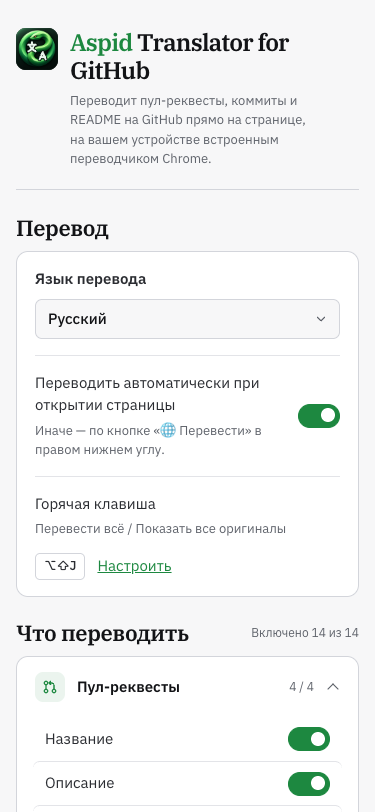
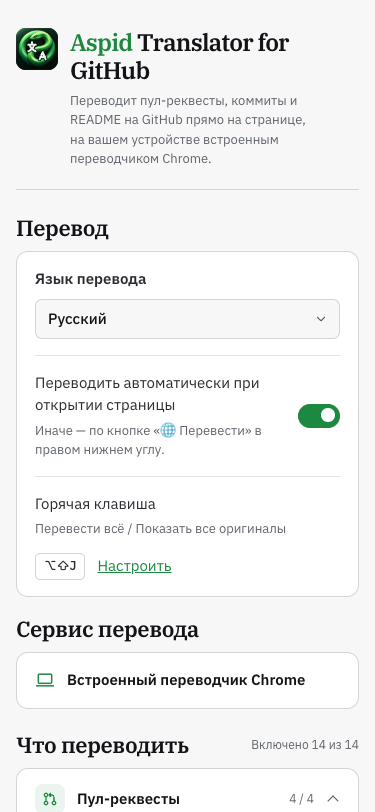
fix(options): restore the two-column settings layout

diff --git a/static/options.html b/static/options.html
@@ -30,7 +30,7 @@
       margin: 0; background: var(--bg); color: var(--fg);
       font: 15px/1.5 var(--sans); -webkit-font-smoothing: antialiased;
     }
-    main { max-width: 736px; margin: 0 auto; padding: 48px 32px 80px; }
+    main { max-width: 1088px; margin: 0 auto; padding: 48px 32px 80px; }
     header {
       display: flex; align-items: center; gap: 18px; padding-bottom: 28px;
       border-bottom: 1px solid var(--line); margin-bottom: 32px;
@@ -40,8 +40,9 @@
     h1 { font: 600 clamp(24px, 3vw, 36px)/1.18 var(--serif); letter-spacing: -0.035em; color: var(--strong); }
     h1 .brand { color: var(--accent); }
     .tagline { max-width: 72ch; margin-top: 6px; color: var(--muted); text-wrap: pretty; }
-    form { display: grid; grid-template-columns: minmax(0, 1fr); align-items: start; gap: 36px; }
-    section { display: grid; min-width: 0; gap: 14px; }
+    form { display: grid; grid-template-columns: minmax(0, .73fr) minmax(0, 1.27fr); align-items: start; gap: 36px; }
+    .general, section { display: grid; min-width: 0; gap: 14px; }
+    .general { gap: 26px; }
     .shortcut { flex-wrap: wrap; }
     .shortcut-actions { display: flex; align-items: center; gap: 12px; }
     .shortcut-actions kbd { padding: 2px 8px; border: 1px solid var(--line); border-radius: 5px; font: 500 13px/1.6 var(--sans); }
@@ -63,8 +64,8 @@
     label.row { cursor: pointer; border-radius: 7px; }
     label.row:hover, summary:hover { background: color-mix(in srgb, var(--fg) 4%, transparent); }
     .group-body .row + .row { border-top: 1px solid var(--hair); }
-    .translation .row { padding: 16px 18px; }
-    .translation .row:has(select) { display: grid; gap: 8px; font-weight: 600; }
+    .general .row { padding: 16px 18px; }
+    .general .row:has(select) { display: grid; gap: 8px; font-weight: 600; }
     .divider { height: 1px; margin-inline: 18px; background: var(--hair); }
     .text { display: grid; gap: 4px; min-width: 0; }
     .hint { color: var(--muted); font-size: 13px; text-wrap: pretty; }
@@ -77,11 +78,12 @@
       background: var(--bg); color: var(--strong); font: 500 15px var(--sans); cursor: pointer;
     }
     @media (max-width: 740px) {
-      main { padding: 28px 16px 72px; }
+      main { max-width: 600px; padding: 28px 16px 72px; }
       header { align-items: start; gap: 12px; margin-bottom: 24px; padding-bottom: 20px; }
       header img { width: 42px; height: 42px; }
       .tagline { font-size: 13px; }
       form { grid-template-columns: minmax(0, 1fr); gap: 22px; }
+      .general { gap: 18px; }
       section { gap: 9px; }
     }
     /* Off: an outline that keeps 3:1 against the card; on: the accent fill with its ink, like the sites' filled marks. */
@@ -129,28 +131,35 @@
   </header>
 
   <form id="form" inert>
-    <section class="translation">
-      <h2 data-i18n="settingsTranslation"></h2>
-      <div class="card">
-        <div class="row">
-          <label for="target" data-i18n="settingsTarget"></label>
-          <div class="select">
-            <select id="target"></select>
-            <svg width="14" height="14" viewBox="0 0 24 24" fill="none" stroke="currentColor" stroke-width="2.2" stroke-linecap="round" stroke-linejoin="round" aria-hidden="true"><path d="M6 9l6 6 6-6"/></svg>
+    <div class="general">
+      <section>
+        <h2 data-i18n="settingsTranslation"></h2>
+        <div class="card">
+          <div class="row">
+            <label for="target" data-i18n="settingsTarget"></label>
+            <div class="select">
+              <select id="target"></select>
+              <svg width="14" height="14" viewBox="0 0 24 24" fill="none" stroke="currentColor" stroke-width="2.2" stroke-linecap="round" stroke-linejoin="round" aria-hidden="true"><path d="M6 9l6 6 6-6"/></svg>
+            </div>
+          </div>
+          <div class="divider"></div>
+          <label class="row">
+            <span class="text"><span data-i18n="settingsAuto"></span><span class="hint" data-i18n="settingsAutoHint"></span></span>
+            <input type="checkbox" role="switch" class="switch" id="auto">
+          </label>
+          <div class="divider"></div>
+          <div class="row shortcut">
+            <span class="text"><span data-i18n="shortcutTitle"></span><span class="hint" data-i18n="shortcutToggle"></span></span>
+            <span class="shortcut-actions"><kbd dir="ltr" id="shortcut"></kbd><a id="edit-shortcut" href="chrome://extensions/shortcuts" data-i18n="shortcutEdit"></a></span>
           </div>
         </div>
-        <div class="divider"></div>
-        <label class="row">
-          <span class="text"><span data-i18n="settingsAuto"></span><span class="hint" data-i18n="settingsAutoHint"></span></span>
-          <input type="checkbox" role="switch" class="switch" id="auto">
-        </label>
-        <div class="divider"></div>
-        <div class="row shortcut">
-          <span class="text"><span data-i18n="shortcutTitle"></span><span class="hint" data-i18n="shortcutToggle"></span></span>
-          <span class="shortcut-actions"><kbd dir="ltr" id="shortcut"></kbd><a id="edit-shortcut" href="chrome://extensions/shortcuts" data-i18n="shortcutEdit"></a></span>
-        </div>
-      </div>
-    </section>
+      </section>
+
+      <section>
+        <h2 data-i18n="settingsEngine"></h2>
+        <div class="card" id="providers"></div>
+      </section>
+    </div>
 
     <section>
       <div class="section-head">
@@ -222,11 +231,6 @@
       </div>
     </section>
 
-
-    <section>
-      <h2 data-i18n="settingsEngine"></h2>
-      <div class="card" id="providers"></div>
-    </section>
   </form>
 </main>
 

diff --git a/output/interface-comparison/index.html b/output/interface-comparison/index.html
@@ -51,7 +51,7 @@
     <img data-scene="dark" data-version="before" src="dark-before.png" alt="Тёмная тема. До изменений" width="1280" height="840" hidden>
     <img data-scene="dark" data-version="after" src="dark-after.png" alt="Тёмная тема. После изменений" width="1280" height="840" hidden>
     <figcaption>
-    <span data-caption="settings">Настройки расположены в одну колонку. В разделе «Перевод» можно посмотреть и изменить горячую клавишу.</span>
+    <span data-caption="settings">Слева — язык, горячая клавиша и сервис перевода. Справа — настройки перевода для разных частей GitHub.</span>
     <span data-caption="github" hidden>Глобус у комментария переключает его текст. Кнопка в правом нижнем углу переключает всю страницу.</span>
     <span data-caption="readme" hidden>Переключатель одного документа находится в панели README рядом с оглавлением.</span>
     <span data-caption="phone" hidden>Настройки при ширине 375 пикселей. Поле языка занимает всю доступную ширину.</span>
